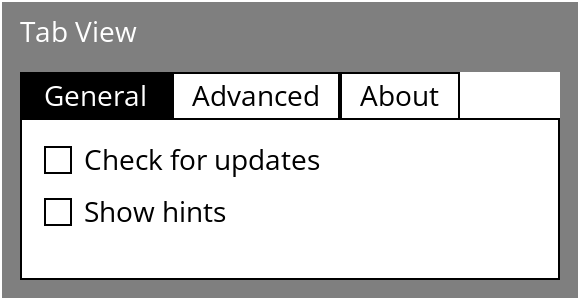
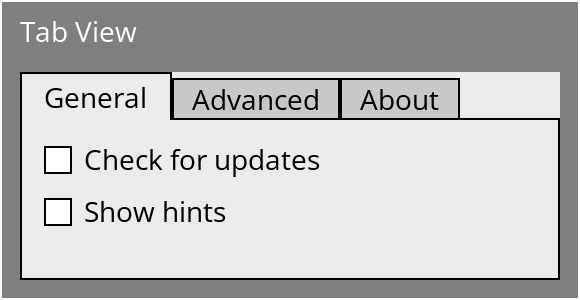
Tab view: match the mockup (raised open tab, gray idle tabs, gray page)

Changed region(s): [[0.031, 0.24, 0.8069, 0.42]]

diff --git a/pushrod-widgets/src/tab_view.rs b/pushrod-widgets/src/tab_view.rs
@@ -69,6 +69,7 @@
 //! ```
 
 use pushrod::accessibility::{AccessInfo, Role};
+use pushrod::appearance::StateStyle;
 use pushrod::cache::WidgetCache;
 use pushrod::color::Color;
 use pushrod::composite::{Composite, PartList, PartsBuilder, TypedParts};
@@ -77,7 +78,7 @@ use pushrod::event::{Event, EventCtx, EventMask, Propagation};
 use pushrod::geometry::{Rect, point, size};
 use pushrod::input::{Key, Modifiers};
 use pushrod::paint::{self, Painter};
-use pushrod::widget::{Behavior, Widget, WidgetCore, WidgetId};
+use pushrod::widget::{Behavior, VisualState, Widget, WidgetCore, WidgetId};
 
 use crate::button::Button;
 use crate::panel::Panel;
@@ -102,6 +103,15 @@ const TAB_MIN_WIDTH: u32 = 56;
 
 /// The width of the border drawn around the pages, in pixels.
 const BORDER: u32 = 1;
+
+/// How much lower the tabs that are not shown sit than the shown tab, in pixels.
+const TAB_RAISE: u32 = 3;
+
+/// The tabs that are not shown, and the default for the view and the shown tab.
+const TAB_IDLE: Color = Color::RGB(200, 200, 200);
+
+/// The default color of the view, its pages, and the shown tab.
+const PAGE_COLOR: Color = Color::RGB(235, 235, 235);
 
 /// Returns the width a tab is given for its label.
 ///
@@ -153,6 +163,8 @@ pub struct TabView {
     reported: Option<WidgetId>,
     /// The width of each tab, from its label, as last arranged.
     widths: Vec<u32>,
+    /// The widths the outlines were last drawn with.
+    painted_widths: Vec<u32>,
 }
 
 impl Widget for TabView {
@@ -192,28 +204,56 @@ impl Widget for TabView {
     fn paint(&self, p: &mut dyn Painter) {
         let frame = self.get_size();
         let style = self.style();
+        let color = style.border_color.unwrap_or(Color::BLACK);
+        let line = |p: &mut dyn Painter, x: i32, y: i32, w: u32, h: u32| {
+            p.fill_rect(Rect::new(x, y, w, h), color);
+        };
 
         paint::fill(p, style.background.unwrap_or(self.get_color()));
 
-        if frame.h <= TAB_HEIGHT || frame.w == 0 {
+        if frame.h <= TAB_HEIGHT || frame.w < 2 {
             return;
         }
 
-        let color = style.border_color.unwrap_or(Color::BLACK);
-        let top = TAB_HEIGHT - BORDER;
-        let height = frame.h - top;
-        let edge = BORDER.min(frame.w);
+        // The border around the pages: left, right, and bottom whole; the top is broken under
+        // the shown tab, which is open at the bottom and joins the page.
+        let top = (TAB_HEIGHT - 1) as i32;
+        let (w, h) = (frame.w, frame.h);
+        let shown = self.selected_page();
+        let mut gap = None;
 
-        p.fill_rect(Rect::new(0, top as i32, frame.w, BORDER), color);
-        p.fill_rect(Rect::new(0, top as i32, edge, height), color);
-        p.fill_rect(
-            Rect::new((frame.w - edge) as i32, top as i32, edge, height),
-            color,
-        );
-        p.fill_rect(
-            Rect::new(0, (frame.h - BORDER.min(height)) as i32, frame.w, BORDER),
-            color,
-        );
+        line(p, 0, top, 1, h - top as u32);
+        line(p, w as i32 - 1, top, 1, h - top as u32);
+        line(p, 0, h as i32 - 1, w, 1);
+
+        // Each tab's outline: top, left, and right; the bottom is the page's top edge.
+        for (i, rect) in self.tab_rects().into_iter().enumerate() {
+            let raised = shown == Some(i);
+            let (x, y, tw) = (rect.x, rect.y, rect.w);
+
+            line(p, x, y, tw, 1);
+            line(p, x, y, 1, top as u32 - y as u32 + 1);
+            line(p, x + tw as i32 - 1, y, 1, top as u32 - y as u32 + 1);
+
+            if raised {
+                gap = Some((x + 1, tw.saturating_sub(2)));
+            }
+        }
+
+        // The page's top edge, but not under the shown tab.
+        match gap {
+            Some((gx, gw)) => {
+                line(p, 0, top, gx.max(0) as u32, 1);
+                line(
+                    p,
+                    gx + gw as i32,
+                    top,
+                    (w as i32 - gx - gw as i32).max(0) as u32,
+                    1,
+                );
+            }
+            None => line(p, 0, top, w, 1),
+        }
     }
 
     /// Switches pages on Ctrl+Tab (next) and Ctrl+Shift+Tab (previous), wrapping around, when the
@@ -350,6 +390,13 @@ impl Composite for TabView {
             self.request_arrange_parts();
         }
 
+        // The outlines depend on the widths and on which tab is shown.
+        if self.reported != Some(shown) || self.painted_widths != self.widths {
+            self.painted_widths = self.widths.clone();
+            self.set_invalidated(true);
+            self.request_arrange_parts();
+        }
+
         for &page in &parts.pages {
             if let Some(widget) = cache.get_mut(page)
                 && widget.is_hidden() != (page != shown)
@@ -392,14 +439,28 @@ impl Composite for TabView {
             frame.w.saturating_sub(2 * BORDER),
             frame.h.saturating_sub(TAB_HEIGHT + BORDER),
         );
+        let shown = self.selected_page();
         let mut placed = Vec::new();
-        let mut x = 0;
 
-        for (i, id) in self.parts.list(TAB_LIST).into_iter().enumerate() {
-            let width = self.widths.get(i).copied().unwrap_or(TAB_MIN_WIDTH);
+        // A tab's button sits inside its outline; the shown tab reaches down over the page's
+        // top edge.
+        for (i, (id, rect)) in self
+            .parts
+            .list(TAB_LIST)
+            .into_iter()
+            .zip(self.tab_rects())
+            .enumerate()
+        {
+            let height = if shown == Some(i) {
+                rect.h - 1
+            } else {
+                rect.h - 2
+            };
 
-            placed.push((id, Rect::new(x, 0, width, TAB_HEIGHT)));
-            x += width as i32;
+            placed.push((
+                id,
+                Rect::new(rect.x + 1, rect.y + 1, rect.w.saturating_sub(2), height),
+            ));
         }
 
         placed.extend(self.parts.list(PAGE_LIST).into_iter().map(|id| (id, body)));
@@ -440,13 +501,16 @@ impl TypedParts for TabView {
     }
 }
 
-/// Creates a page: a transparent panel that fills the area under the tabs.
+/// Creates a page: a panel in the view's color that fills the area under the tabs.
 ///
 /// # Returns
 ///
 /// The panel.
 fn new_page() -> Panel {
-    Panel::new()
+    let mut page = Panel::new();
+
+    page.set_color(PAGE_COLOR);
+    page
 }
 
 /// Creates a tab: a focusable toggle button, inverted while its page is shown.
@@ -465,10 +529,54 @@ fn new_tab(title: &str) -> Button {
 
     // Focusable, so the keyboard reaches the tabs (Tab, then Space or Return, or Ctrl+Tab).
     tab.set_behavior(tab.behavior() | Behavior::FOCUSABLE);
+
+    // The view draws each tab's outline, so the button draws none: gray when idle, the page's
+    // color when shown.
+    for (state, color) in [
+        (VisualState::empty(), TAB_IDLE),
+        (VisualState::CHECKED, PAGE_COLOR),
+    ] {
+        tab.set_style(
+            state,
+            StateStyle {
+                background: Some(color),
+                foreground: Some(Color::BLACK),
+                border_width: Some(0),
+                ..StateStyle::default()
+            },
+        );
+    }
+
     tab
 }
 
 impl TabView {
+    /// Returns each tab's outline, left to right: the shown tab is taller and open at the
+    /// bottom, the others sit lower.
+    ///
+    /// # Returns
+    ///
+    /// The outlines, in the view's coordinates.
+    fn tab_rects(&self) -> Vec<Rect> {
+        let shown = self.selected_page();
+        let mut x = 0;
+
+        (0..self.parts.list(TAB_LIST).len())
+            .map(|i| {
+                let width = self.widths.get(i).copied().unwrap_or(TAB_MIN_WIDTH);
+                let (y, h) = if shown == Some(i) {
+                    (0, TAB_HEIGHT + 1)
+                } else {
+                    (TAB_RAISE, TAB_HEIGHT - TAB_RAISE)
+                };
+                let rect = Rect::new(x, y as i32, width, h);
+
+                x += width as i32;
+                rect
+            })
+            .collect()
+    }
+
     /// Creates a tab view with no pages, 200 by 150 pixels at the upper left-hand corner of its
     /// parent.  Add pages with [`TabView::with_page`] before it is added to a window, or
     /// [`TabView::add_page`] after.
@@ -481,7 +589,7 @@ impl TabView {
 
         core.set_event_mask(EventMask::KEYBOARD);
 
-        Self {
+        let mut view = Self {
             core,
             parts: PartList::new(),
             pending: Vec::new(),
@@ -489,7 +597,11 @@ impl TabView {
             index_hint: 0,
             reported: None,
             widths: Vec::new(),
-        }
+            painted_widths: Vec::new(),
+        };
+
+        view.set_color(PAGE_COLOR);
+        view
     }
 
     /// Sets the upper left-hand corner, relative to the parent `Widget`.

diff --git a/pushrod-sdl2/examples/gallery.rs b/pushrod-sdl2/examples/gallery.rs
@@ -739,20 +739,22 @@ pub fn main() -> Result<(), pushrod::error::Error> {
         .unwrap_or_default();
 
     if let [general, advanced, about] = pages[..] {
-        engine.add_child_widget(
-            general,
-            CheckBox::new("Check for updates").at(10, 10).size(200, 20),
-        );
-        engine.add_child_widget(
-            general,
-            CheckBox::new("Show hints").at(10, 36).size(200, 20),
-        );
-        engine.add_child_widget(advanced, Text::new("Cache size").at(10, 10).size(120, 20));
+        // Controls on a page take the page's color, so no white boxes show.
+        let page_color = Color::RGB(235, 235, 235);
+        let mut updates = CheckBox::new("Check for updates").at(10, 10).size(200, 20);
+        let mut hints = CheckBox::new("Show hints").at(10, 36).size(200, 20);
+        let mut cache = Text::new("Cache size").at(10, 10).size(120, 20);
+        let mut version = Text::new("Sample Settings 1.0").at(10, 10).size(200, 20);
+
+        updates.set_color(page_color);
+        hints.set_color(page_color);
+        cache.set_color(page_color);
+        version.set_color(page_color);
+        engine.add_child_widget(general, updates);
+        engine.add_child_widget(general, hints);
+        engine.add_child_widget(advanced, cache);
         engine.add_child_widget(advanced, TextField::new().at(10, 36).size(120, 24));
-        engine.add_child_widget(
-            about,
-            Text::new("Sample Settings 1.0").at(10, 10).size(200, 20),
-        );
+        engine.add_child_widget(about, version);
     }
 
     let quit_id = engine.add_child_widget(

diff --git a/pushrod-docs/docs/widgets/tab-view.md b/pushrod-docs/docs/widgets/tab-view.md
@@ -10,7 +10,7 @@ description: Tabs above a stack of pages, one page shown at a time, switched by 
 
 It is a [composite widget](../guides/composite-widgets.md). Each page is a `Panel` and each tab is a toggle `Button`, all with their own IDs, so you add controls to a page and restyle a tab with the normal API.
 
-![A tab view with tabs General, Advanced, and About; General is shown in black and its page holds two check boxes](/img/screenshots/tab-view.png)
+![A tab view with tabs General, Advanced, and About; General is raised and joined to its page, which holds two check boxes](/img/screenshots/tab-view.png)
 
 ```mermaid
 flowchart LR
@@ -113,8 +113,8 @@ Every widget also has the methods of the `Widget` trait: `get_id`, `get_parent`,
 
 | Name | Field of `TabViewParts` | Widget | Default look |
 |---|---|---|---|
-| `"tab:0"`, `"tab:1"`, ... | `tabs` | [`Button`](button.md) (toggle) | A white tab with black text; the shown page's tab is black with white text. Each is 24 pixels high and as wide as its label needs. |
-| `"page:0"`, `"page:1"`, ... | `pages` | [`Panel`](panel.md) | Transparent, filling the area under the tabs inside a one-pixel black border. Only the shown page is visible. |
+| `"tab:0"`, `"tab:1"`, ... | `tabs` | [`Button`](button.md) (toggle) | A light gray tab with black text and a one-pixel black outline. The shown tab is raised, takes the page's color, and is open at the bottom so it joins the page. Each tab is as wide as its label needs. |
+| `"page:0"`, `"page:1"`, ... | `pages` | [`Panel`](panel.md) | Light gray (the view's color), filling the area under the tabs inside a one-pixel black border. Only the shown page is visible. Controls you add should share its color. |
 
 Every part can be retrieved and restyled with the usual calls, such as `ui.get_mut::<Button>(tab)` for a tab's font, color, and text, or `set_color` on a page:
 
